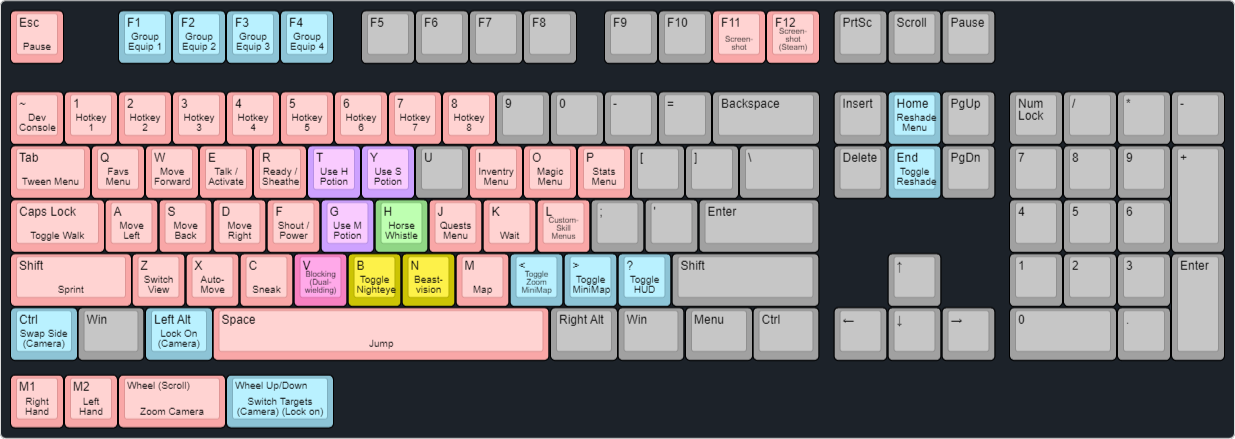
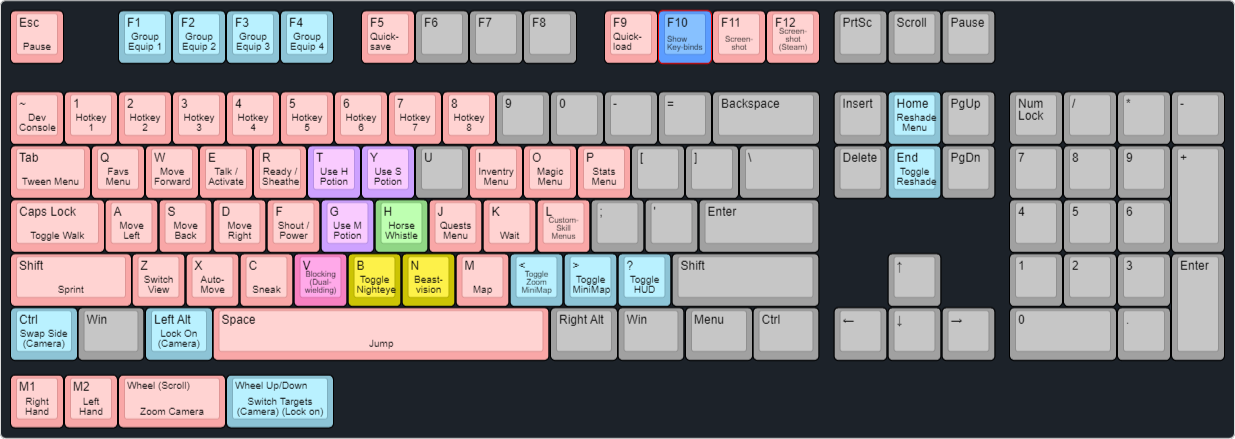
v2.3

Changed region(s): [[0.4923, 0.0, 0.5846, 0.1481], [0.2769, 0.0, 0.3385, 0.1481]]

diff --git a/CHANGELOG.md b/CHANGELOG.md
@@ -3,6 +3,19 @@ description: Here you can find a list of changes made during each update.
 ---
 # Changelog
 
+## 2.3
+
+**Changes:**
+
+- Redone the NPC Merge
+- Unpaused more menus (Had to make a mod to fix some minimap behavior that made me keep them paused before.)
+- Improved the Hide UI Key
+- Added a Keyboard Layout preview that you can open with `F10`
+- Updated a fair number of mods.
+
+**This update should work on version 2.2 saves, BUT since I am not 100% sure I still recommend starting a new one.**
+I had to regenerate some patchers which could result in some already spawned NPCs suddenly missing their equipment, it shouldn't but it could.
+
 ## 2.2
 
 **Removed:**
